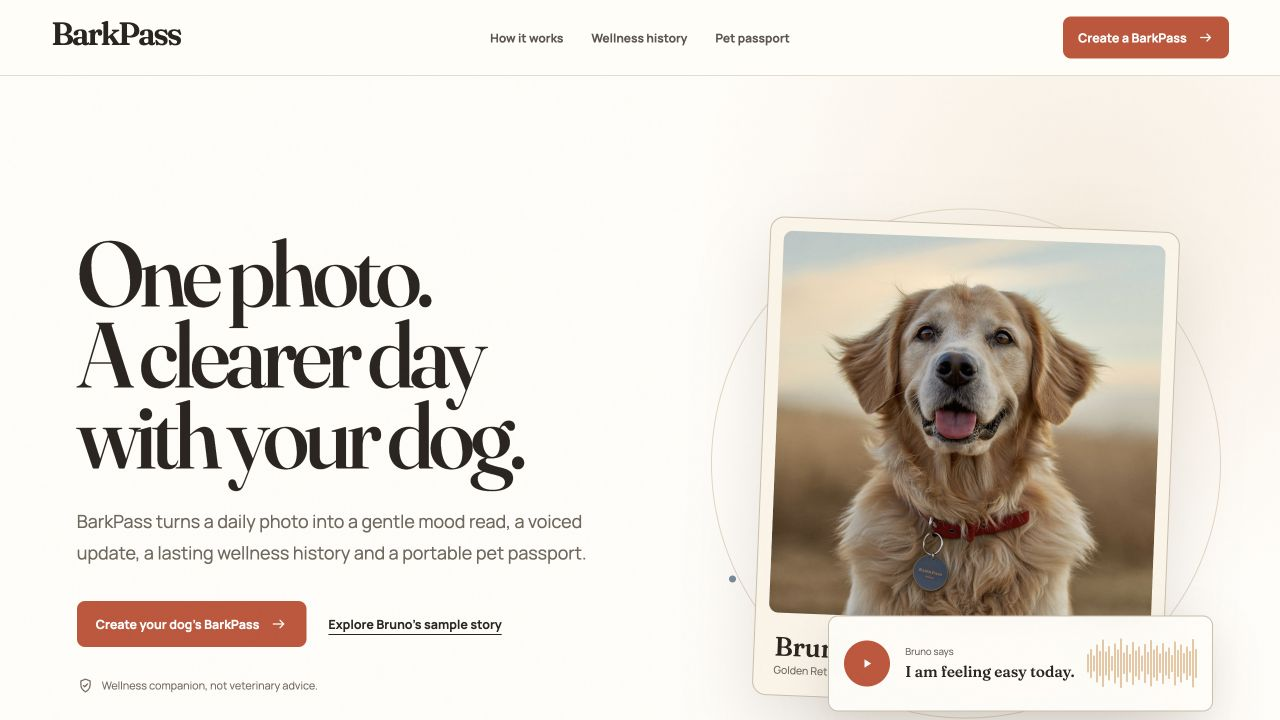
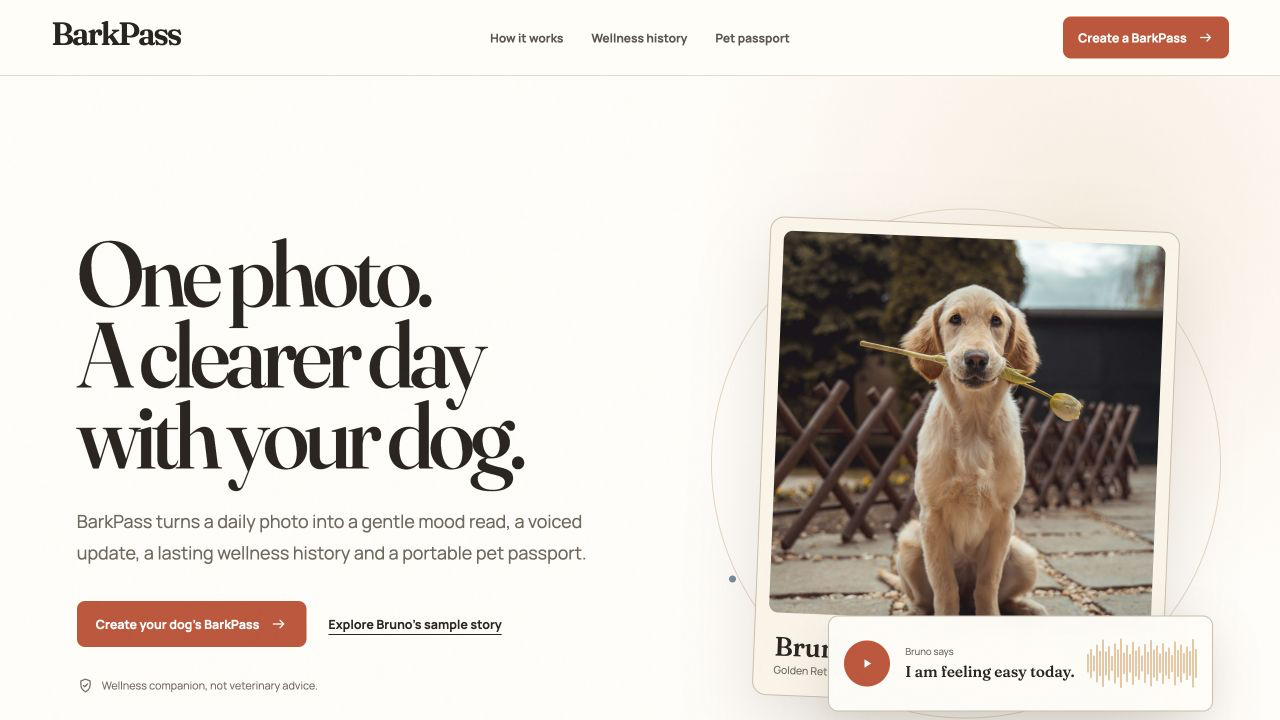
Use distinct real photos and show live provider progress

Changed region(s): [[0.5938, 0.3056, 0.9375, 0.8556]]

diff --git a/src/components/IntegrationStatus.jsx b/src/components/IntegrationStatus.jsx
@@ -22,13 +22,25 @@ export default function IntegrationStatus() {
 
   const liveCount = useMemo(() => providers ? Object.values(providers).filter(Boolean).length : 0, [providers])
   const isLive = liveCount === 4
+  const statusTitle = providers === null
+    ? 'Checking sponsor routes'
+    : isLive
+      ? 'All four sponsor routes are live'
+      : liveCount > 0
+        ? `${liveCount} of 4 sponsor routes are live`
+        : 'Safe demo fallbacks are active'
+  const statusDetail = isLive
+    ? 'Upload one photo to exercise the complete provider pipeline.'
+    : liveCount > 0
+      ? 'Live routes run end to end; unconfigured providers stay visibly labelled as demo.'
+      : 'The full interface works here. Live-provider evidence is linked in the submission.'
 
   return (
     <aside className={`integration-status ${isLive ? 'all-live' : ''}`} aria-label="Challenge integration status" aria-live="polite">
       <div className="integration-status-copy">
         <span className="integration-kicker"><Icon name="spark" size={16} /> DEV Weekend challenge stack</span>
-        <strong>{providers === null ? 'Checking sponsor routes' : isLive ? 'All four sponsor routes are live' : 'Safe demo fallbacks are active'}</strong>
-        <p>{isLive ? 'Upload one photo to exercise the complete provider pipeline.' : 'The full interface works here. Live-provider evidence is linked in the submission.'}</p>
+        <strong>{statusTitle}</strong>
+        <p>{statusDetail}</p>
       </div>
       <ul>
         {Object.entries(providerNames).map(([key, label]) => (

diff --git a/src/components/DogPortrait.jsx b/src/components/DogPortrait.jsx
@@ -1,13 +1,13 @@
 const photoByVariant = {
-  passport: '/bruno-passport-higgsfield.jpg',
-  hero: '/bruno-higgsfield.jpg',
-  walk: '/bruno-walk-higgsfield.jpg',
+  passport: '/bruno-real-passport.jpg',
+  hero: '/bruno-real-hero.jpg',
+  walk: '/bruno-real-walk.jpg',
 }
 
 const altByVariant = {
-  passport: 'Bruno, a golden retriever, photographed for his BarkPass profile',
-  hero: 'Bruno, a golden retriever, wearing his red BarkPass collar',
-  walk: 'Bruno walking toward the camera on a quiet path',
+  passport: 'Bruno, a golden retriever, photographed against a blue background',
+  hero: 'Bruno, a golden retriever, holding a yellow flower outdoors',
+  walk: 'Bruno as a golden retriever puppy wearing a red collar',
 }
 
 export default function DogPortrait({ variant = 'passport', className = '', dog = null }) {

diff --git a/src/components/PassportActions.jsx b/src/components/PassportActions.jsx
@@ -73,7 +73,7 @@ export default function PassportActions({ dog, wallet }) {
       <div className="chain-actions">
         <ActionPanel
           title={`Mint ${dog.name}’s passport`}
-          copy="Create a permanent demo passport record on Solana devnet."
+          copy="Create a permanent passport record on Solana devnet."
           action="mint"
           icon="shield"
           buttonLabel="Mint passport"
@@ -82,7 +82,7 @@ export default function PassportActions({ dog, wallet }) {
         />
         <ActionPanel
           title="Tip a shelter"
-          copy="Send a small devnet contribution to the demo shelter wallet."
+          copy="Send a small devnet contribution to the BarkPass shelter wallet."
           action="tip"
           icon="heart"
           buttonLabel="Tip a shelter"

diff --git a/src/LandingPage.jsx b/src/LandingPage.jsx
@@ -102,8 +102,8 @@ export default function LandingPage() {
               <div className="hero-media">
                 {!heroLoaded && <DogPortrait />}
                 <img
-                  src="/bruno-higgsfield.jpg"
-                  alt="Bruno, a golden retriever, wearing his red BarkPass collar"
+                  src="/bruno-real-hero.jpg"
+                  alt="Bruno, a golden retriever, holding a yellow flower outdoors"
                   className={heroLoaded ? 'loaded' : ''}
                   onLoad={() => setHeroLoaded(true)}
                   onError={() => setHeroLoaded(false)}

diff --git a/src/data/demo.js b/src/data/demo.js
@@ -15,7 +15,7 @@ export const sampleDog = {
   age: '4 years',
   microchip: 'demo-4821',
   vaccination: 'May 1, 2026',
-  photo: '/bruno-passport-higgsfield.jpg',
+  photo: '/bruno-real-passport.jpg',
 }
 
 export const sampleCheckins = [

diff --git a/submission-assets/gemini-eval/CREDITS.md b/submission-assets/gemini-eval/CREDITS.md
@@ -2,10 +2,12 @@
 
 Five real photographs used only to verify that BarkPass returns distinguishable reads for visibly different dog images. Each original is provided under the Unsplash License.
 
-- `01-dog-relaxed.jpg`: https://unsplash.com/photos/1552053831-71594a27632d
-- `02-dog-playful.jpg`: https://unsplash.com/photos/1534361960057-19889db9621e
-- `03-dog-alert.jpg`: https://unsplash.com/photos/1517849845537-4d257902454a
-- `04-dog-tired.jpg`: https://unsplash.com/photos/1558788353-f76d92427f16
-- `05-dog-anxious.jpg`: https://unsplash.com/photos/1507146426996-ef05306b995a
+Three of those licensed originals are also used as the distinct Bruno hero, passport and closing photographs: `01-dog-relaxed.jpg`, `04-dog-tired.jpg` and `05-dog-anxious.jpg`. The optimized public copies preserve the original photographs without generative edits.
+
+- `01-dog-relaxed.jpg`: https://images.unsplash.com/photo-1552053831-71594a27632d
+- `02-dog-playful.jpg`: https://images.unsplash.com/photo-1534361960057-19889db9621e
+- `03-dog-alert.jpg`: https://images.unsplash.com/photo-1517849845537-4d257902454a
+- `04-dog-tired.jpg`: https://images.unsplash.com/photo-1558788353-f76d92427f16
+- `05-dog-anxious.jpg`: https://images.unsplash.com/photo-1507146426996-ef05306b995a
 
 License: https://unsplash.com/license

diff --git a/README.md b/README.md
@@ -24,7 +24,7 @@ The app remains usable without credentials through local demo fallbacks. On Verc
 - Snowflake stores check-ins and grounds history answers in queried rows.
 - Metaplex mints the passport on Solana devnet, while Phantom signs the shelter tip.
 
-The three photographs of Bruno were created with Higgsfield and optimized for the web at `public/bruno-higgsfield.jpg`, `public/bruno-passport-higgsfield.jpg` and `public/bruno-walk-higgsfield.jpg`. Data graphics and interface controls remain code-native SVG and CSS.
+The three Bruno placements use distinct real photographs published under the Unsplash License and optimized locally at `public/bruno-real-hero.jpg`, `public/bruno-real-passport.jpg` and `public/bruno-real-walk.jpg`. Sources and license details are recorded in `submission-assets/gemini-eval/CREDITS.md`. Data graphics and interface controls remain code-native SVG and CSS.
 
 Production builds call the same-origin Vercel Functions automatically. During local Vite development, set `VITE_API_BASE_URL` to a running functions host if you want the live provider path. Otherwise the demo fallbacks remain active.
 
